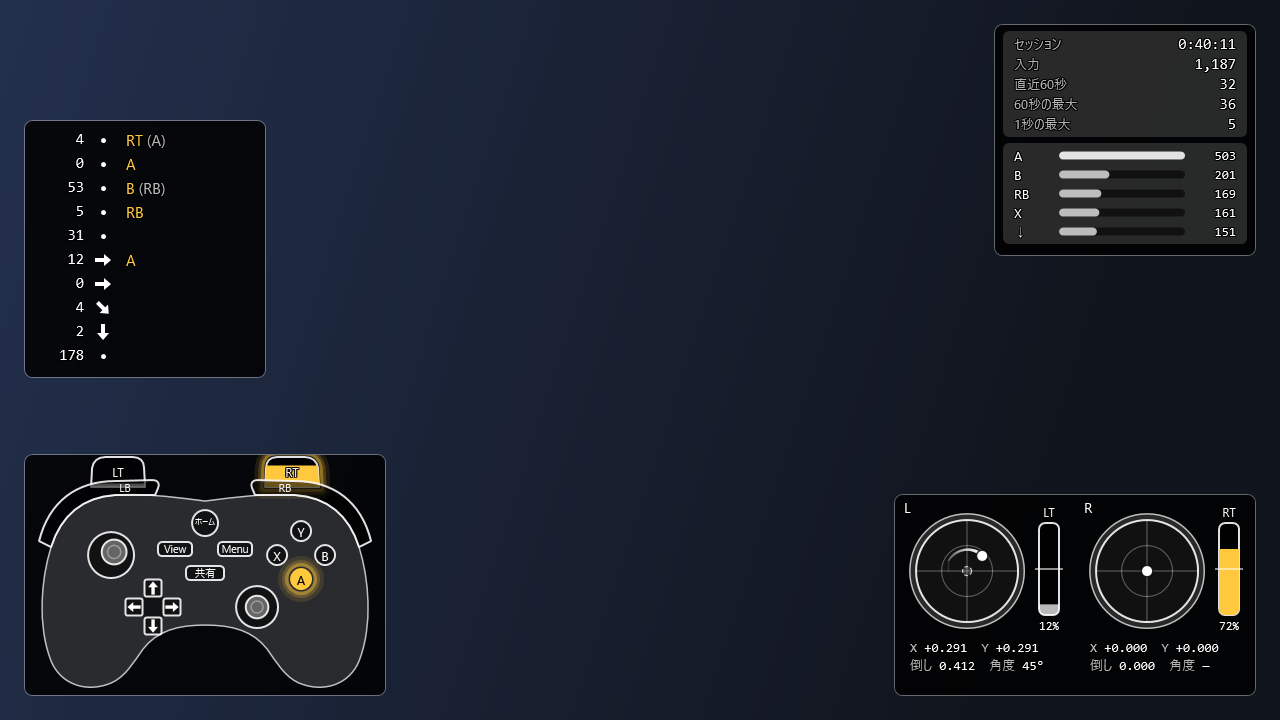
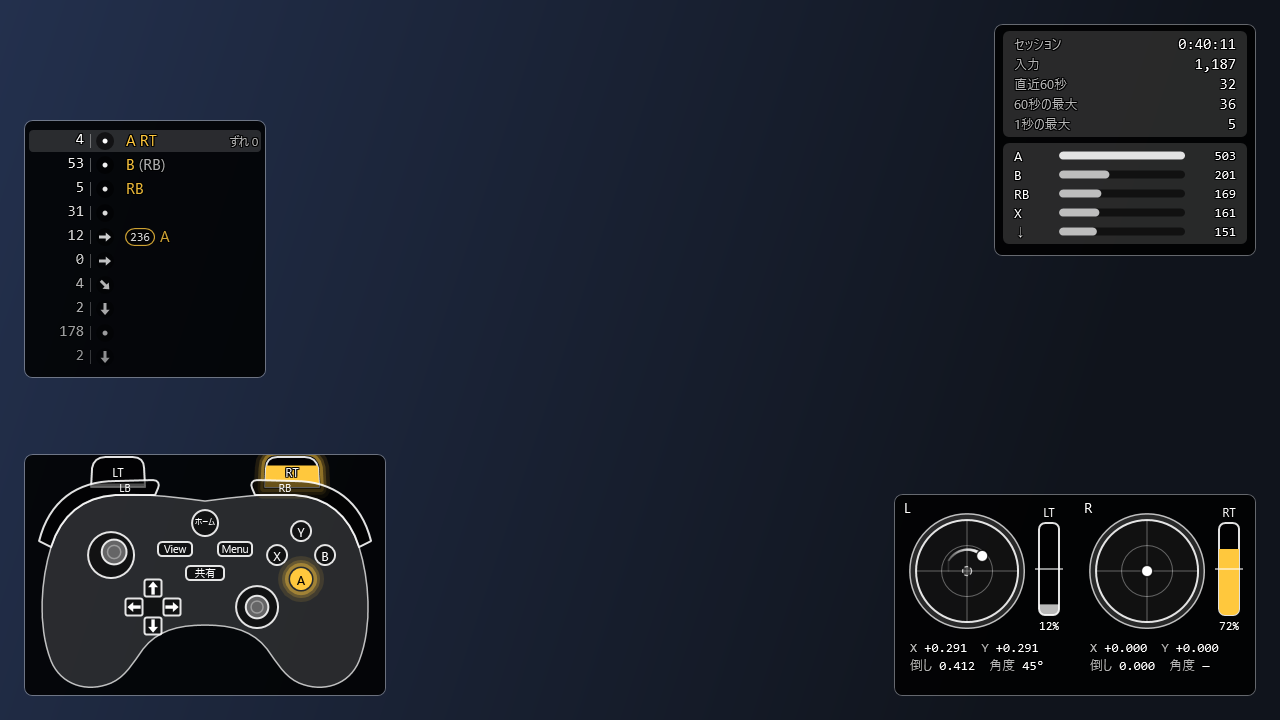
Document the measure tab, history merge/motions, drift watch and press flash; re-render README panels

Changed region(s): [[0.0, 0.1833, 0.2188, 0.5194]]

diff --git a/CHANGELOG.md b/CHANGELOG.md
@@ -9,15 +9,27 @@
 - スティック診断の画面に「ボタンの検査」(離してから 15 ミリ秒未満でまた押された回数を数える)と「トリガーを測る」
 - 統計の画面で、選んだパッドのボタン別の通算をパッドの絵の上に色の濃さで出す
 - 入力履歴を止める・動かすホットキー(既定 Ctrl+Alt+F)とトレイのメニュー
+- 押した瞬間の光: パッド表示で、押したボタン・十字キー・肩・トリガーの周りに 0.18 秒の光の輪(Windows のアニメーション効果が切なら出さない)
+- 入力履歴: ほぼ同時に押したボタンを 1 行にまとめて「ずれ {n}」を出す(既定 2/60 秒以内)。236・623・214・421・41236・63214・22 のコマンドを見分けて印を出す(どちらもパネルのタブで変えられる)
+- スティックのずれの見張り: 触っていないスティックのずれがデッドゾーンを超えていたら、ホームの帯で知らせる
+- 計測のタブ: 連打テスト(10 秒の回数・1 秒の最大・間隔のばらつき)と反応速度テスト(5 回の平均と最良)
 
 ### Fixed
 
+- SDL の準備に失敗したまま「つなぎ直す」を押すと、アプリが落ちていた
+- 別の読み取りの経路から少し前の時刻のイベントが届くと、セッションが 2 つに割れる・表示するパッドがすぐ切り替わることがあった
+- 同じキーが 2 つある settings.json で、起動するたびに落ちていた(今は名前を変えて初めの値で起動する)
+- current_session.json を消せなかったとき、次の起動で同じセッションを二重に数えていた。確定を書けなかったときに控えを消していた
+- pads.json をほかのプログラムが開いていると、壊れたと見なして通算を空からやり直していた
+- ホットキーの受け付けの途中でタブを離れる・窓を閉じると、受け付けが残っていた。同じ組み合わせを 2 つの操作に入れられた
+- デモを流している間に「裏の入力を確かめる」の数がずれた
 - 入力の取り方を変える・割り当ての一覧を取り込むと、続いているセッションがその場で確定し、入力履歴が 999+ になっていた(SDL を初期化し直すと時計が 0 に戻るため)
 - Windows のサインアウト・シャットダウンでも、今のセッションを確定して保存する
 - 入力が無い間、メインの画面やトレイからの操作が最大 0.25 秒待たされていた
 
 ### Changed
 
+- スティックと統計のパネルを、パッド表示と同じ作り(本体の色の板・くぼみ・縦のトリガーの板)にした。入力履歴のパネルも、一番上の行の帯・古い行ほど薄く・方向のくぼみの丸にした
 - パッド表示の絵を作り直した: 型ごとの本体の輪郭(握りまで)、肩のボタンは本体の縁に沿った帯、トリガーは肩の上の板で押した分だけ下から塗る、十字キーは 1 つの十字、ボタンとスティックはくぼみの中。Switch Pro 型に専用の並びを足した。README の画像も描き直した
 - パネルを全部隠してメインの画面も閉じている間は、描画のループを止める
 - 取ってきた割り当ての一覧は、Windows の行だけを置く

diff --git a/README.md b/README.md
@@ -10,9 +10,11 @@
 ## 主な機能
 
 - **パッド表示**: 押しているボタン、十字キー、スティックの位置と押し込み、トリガーの押し具合を、パッドの絵で出します。Xbox 型・PlayStation 型・Switch Pro 型・Joy-Con ペア型・アケコン型・汎用型の絵があり、パッドの種類から自動で選びます
-- **入力履歴**: 方向(テンキー表記)と押したボタンを新しい順に 1 行ずつ出し、各行の長さをフレーム数(60 / 120 / 144 / 240)かミリ秒で出します
+- **入力履歴**: 方向(テンキー表記)と押したボタンを新しい順に 1 行ずつ出し、各行の長さをフレーム数(60 / 120 / 144 / 240)かミリ秒で出します。ほぼ同時に押したボタンは 1 行にまとめて押した時刻のずれを出し、236・623 などのコマンドを見分けて印を付けます
 - **スティック**: 左右のスティックの位置・軌跡・数値と、トリガーの値を出します。メインの画面では、手を離したときのずれと外周の形、トリガーが 0% に戻るか・100% まで届くかを測れます。ボタンごとに、離してすぐにまた押されたことになった回数(接点のへたりの疑い)も数えます
 - **統計**: セッションの長さ、入力の回数、直近 60 秒の回数、1 秒の最大(連打の速さ)、ボタン別の回数を出します。パッドごとの通算も残り、よく押すボタンをパッドの絵の上に色の濃さで出します。セッションごとの集計を残し、期間ごとと直近 30 日の棒グラフで見られます。CSV にも書き出せます
+- **計測**: 連打テスト(10 秒の回数・1 秒の最大・間隔のばらつき)と、反応速度テスト(画面の色が変わってから押すまで)。触っていないスティックのずれが大きいときは、ホームで知らせます
+- パッド表示では、押した瞬間にボタンの周りが短く光ります
 - パネルはクリックを下の窓へ通し、フォーカスを取りません。ホットキーで全部を隠す・置き場所を変える・入力履歴を消す・入力履歴を止めることができます(既定は Ctrl+Alt+G・J・H・F)
 - パネルはドラッグで動かせるほか、四隅・左側・右側にまとめて並べ直せます
 - パネルの配色テーマ: クラシック・ネオン・ライト・高コントラストと、背景・線・文字の色を自分で選べるテーマ

diff --git a/README.en.md b/README.en.md
@@ -12,9 +12,11 @@ The user interface is in Japanese only.
 ## Features
 
 - **Pad view**: pressed buttons, D-pad, stick position and click, and trigger travel, drawn as a pad. Xbox, PlayStation, Switch Pro, Joy-Con pair, arcade stick and generic layouts; chosen automatically from the pad type
-- **Input history**: direction (numpad notation) and pressed buttons, one row per change, newest first, with each row's length in frames (60 / 120 / 144 / 240) or milliseconds
+- **Input history**: direction (numpad notation) and pressed buttons, one row per change, newest first, with each row's length in frames (60 / 120 / 144 / 240) or milliseconds. Near-simultaneous presses are merged into one row showing their offset, and motions such as 236 and 623 are recognised and badged
 - **Sticks**: left and right stick position, trail and values, plus trigger values. The main window can measure the resting drift and the outer range shape of a stick, check that triggers return to 0% and reach 100%, and count presses that came right after a release (a sign of a worn switch)
 - **Stats**: session length, input count, inputs in the last 60 seconds, peak inputs per second (mashing speed) and per-button counts. Per-pad lifetime totals are kept too, with the most-pressed buttons shaded on the pad picture. Per-session totals are kept and can be viewed by period, as a 30-day bar chart, or exported as CSV
+- **Measure**: a 10-second mashing test (count, peak per second, interval spread) and a reaction-time test. A home banner warns when an untouched stick drifts beyond the deadzone
+- The pad view flashes a short glow around a button the moment it is pressed
 - Panels let clicks through to the window below and never take focus. Hotkeys hide all panels, enter the arrange mode, clear the history and pause the history (defaults Ctrl+Alt+G / J / H / F)
 - Panels can be dragged, or rearranged in one click to the corners or stacked on the left or right
 - Panel color themes: Classic, Neon, Light, High contrast, and a custom theme with your own background, line and text colors
